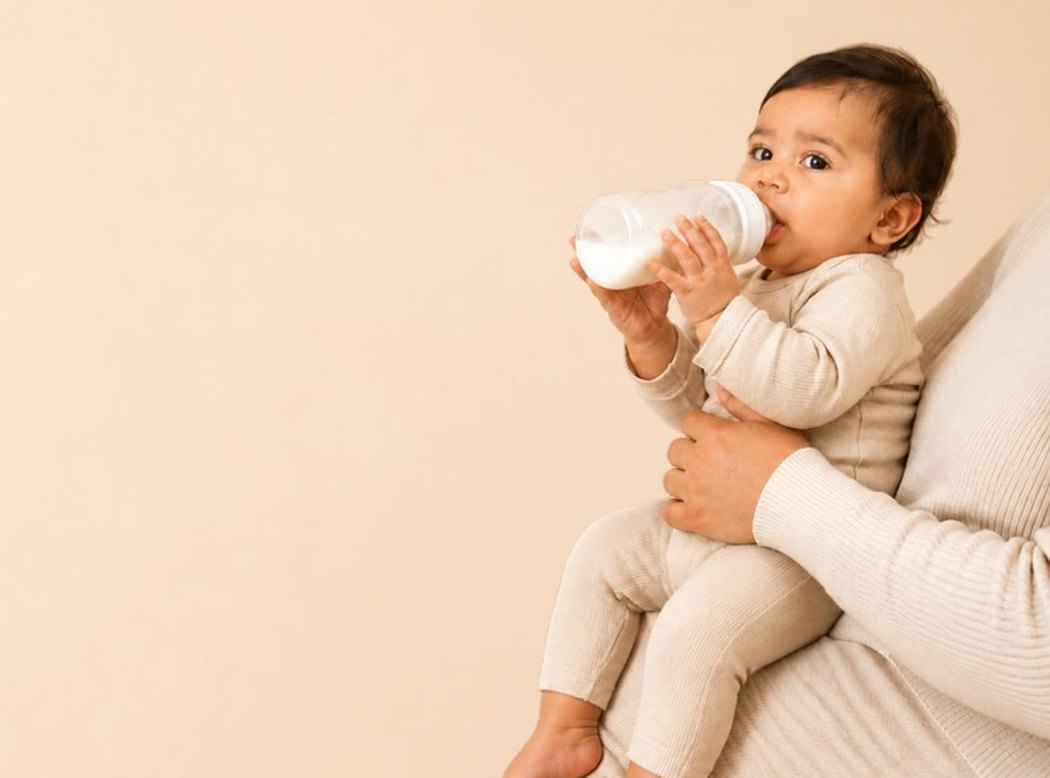
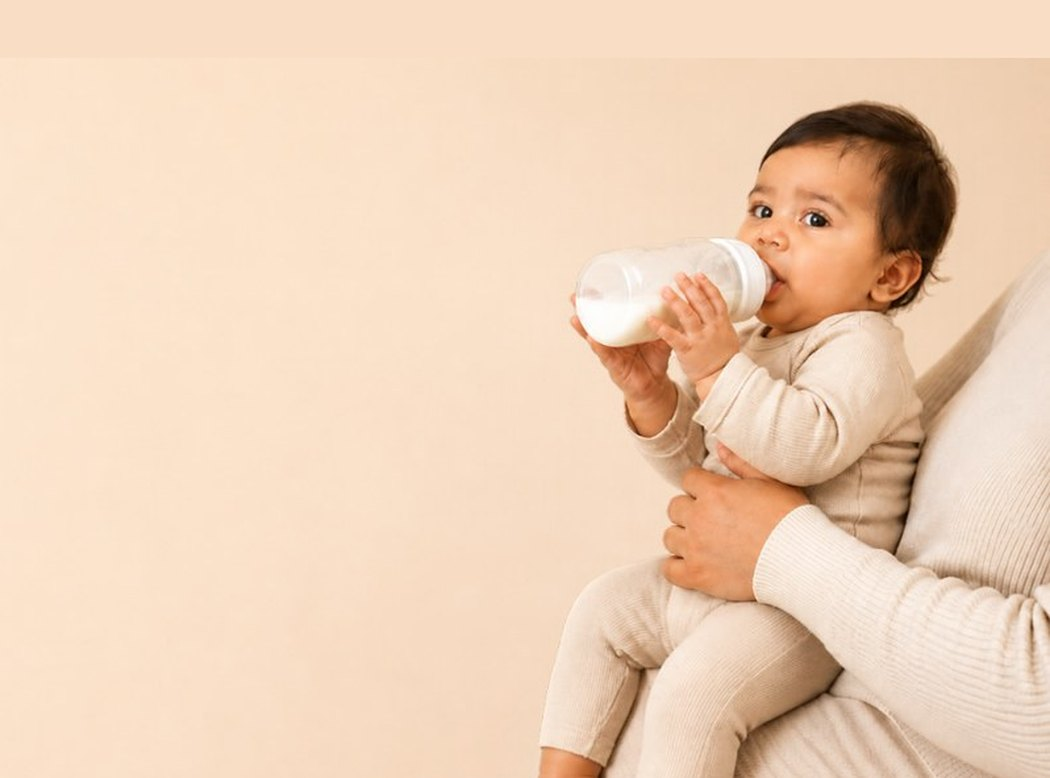
Feeding top card: Ready for solids baby back where it was; photo area keeps the photo's shape so heads are never cropped; shorter leads; a check that measures every card at 360/390/430
Claude-Session: https://claude.ai/code/session_01SSLJSJdmvqefnhBadk2njA

Changed region(s): [[0.4571, 0.0308, 1.0, 1.0]]

diff --git a/js/feed-mock2.js b/js/feed-mock2.js
@@ -3116,14 +3116,14 @@
   // Nov 19 (Yarden): one top card. The photo carries what you might notice as labels on the picture; the lead says why;
   // one thing to try closes the card. [photo, title, lead, try]
   const DISC = () => { const v = stg(), m = ageMo(), bot = isBottle() && !nurses();
-    if (v === 0) return [0, 'Feeds come close together', 'His stomach is tiny, so feeds bunch up, most of all in the evening. It eases by 6–8 weeks.', 'Feed him when you see early cues, before he cries.'];
-    if (v === 1 && m < 3) return [1, 'He’s getting good at this', 'From about 6 weeks, feeds get quicker. Shorter doesn’t mean less milk.', bot ? 'Let him end the feed, even if milk is left in the bottle.' : 'Let him end the feed, even if it’s sooner than usual.'];
-    if (v === 1) return [2, 'The world is interrupting his feeds', 'He notices everything now. Distracted isn’t the same as full.', 'Feed somewhere quiet and dim, and offer again after a short pause.'];
+    if (v === 0) return [0, 'Feeds come often', 'His stomach is tiny. Evenings are busiest, and it eases by 6–8 weeks.', 'Feed him when you see early cues, before he cries.'];
+    if (v === 1 && m < 3) return [1, 'He’s getting good at this', 'Feeds get quicker from about 6 weeks. That’s not less milk.', bot ? 'Let him end the feed, even if milk is left in the bottle.' : 'Let him end the feed, even if it’s sooner than usual.'];
+    if (v === 1) return [2, 'The world is interrupting his feeds', 'He notices everything. Distracted isn’t the same as full.', 'Feed somewhere quiet and dim, and offer again after a short pause.'];
     if (v === 2 && m >= 7) return [3, 'A good time to start', 'Iron matters more after 6 months. Bring your feeding questions to the checkup.', 'If he sits with support and swallows well, offer a soft, iron-rich food once a day.'];
     if (v === 2) return [3, 'Eating starts before the first bite', 'He’s watching, reaching, and learning what food is for.', 'Let him join you at meals and watch you eat.'];
-    if (v === 3 && m < 7.5) return [4, 'His tongue has a new job', 'Food coming back out is practice, not dislike. It happens less as he learns.', 'Offer the same food a few days in a row, and watch him get better at it.'];
+    if (v === 3 && m < 7.5) return [4, 'His tongue has a new job', 'Food coming back out is practice, not dislike.', 'Offer the same food a few days in a row, and watch him get better at it.'];
     if (v === 3) return [5, 'Lumps are a big leap', 'Gagging on new textures is normal. It happens less with practice.', 'When he gags, stay calm and let him work it out.'];
-    return [6, 'The mess is the milestone', 'Squishing and dropping food is practice for his fingers and mouth.', 'Eat with him when you can, so he can copy you.']; };
+    return [6, 'The mess is the milestone', 'Squishing and dropping food is how he practices.', 'Eat with him when you can, so he can copy you.']; };
   // Nov 19 (Yarden: labels covered the picture). Each dot sits beside the thing it names, never on it, and its label runs
   // away from the baby into empty background (the design system's rule: close labels, no leader lines).
   // [label, x, y, side] in % of a 5:3 crop at focus fy; heroPhoto moves them into the shorter 2.2:1 frame.

diff --git a/css/photos.css b/css/photos.css
@@ -273,10 +273,10 @@
 #main .sf-hero + .sf-head > h2.hub-h2 { margin-top: 6px !important }
 /* Nov 20: split top card — words on the photo's empty left side, baby on the right */
 #main .fd-hero.fd-split { padding-top: 0 !important }
-#main .fd-split .fd-split-top { position: relative; isolation: isolate; background: linear-gradient(160deg,#f9d9e5,#fce9ef 70%,#fdeee6); margin: 0 -20px; min-height: 248px; padding: 22px 20px 18px; display: flex; align-items: center; overflow: hidden; border-radius: 24px 24px 0 0 }
-#main .fd-split .fd-split-img { position: absolute; inset: 0; width: 100%; height: 100%; object-fit: cover; object-position: right center; mix-blend-mode: multiply; filter: brightness(1.13) saturate(0.95); -webkit-mask-image: linear-gradient(to right, transparent 0, #000 40%), linear-gradient(to bottom, #000 82%, transparent); -webkit-mask-composite: source-in; mask-image: linear-gradient(to right, transparent 0, #000 40%), linear-gradient(to bottom, #000 82%, transparent); mask-composite: intersect; pointer-events: none }
-#main .fd-split .fd-split-copy { position: relative; width: 52%; z-index: 1 }
+#main .fd-split .fd-split-top { position: relative; isolation: isolate; background: linear-gradient(160deg,#f9d9e5,#fce9ef 70%,#fdeee6); margin: 0 -20px; aspect-ratio: 1.35 / 1; padding: 0 20px; display: flex; align-items: center; overflow: hidden; border-radius: 24px 24px 0 0 }
+#main .fd-split .fd-split-img { position: absolute; inset: 0; width: 100%; height: 100%; object-fit: cover; object-position: right center; mix-blend-mode: multiply; filter: brightness(1.13) saturate(0.95); -webkit-mask-image: linear-gradient(to right, transparent 0, #000 40%), linear-gradient(to bottom, transparent 0, #000 7%, #000 82%, transparent); -webkit-mask-composite: source-in; mask-image: linear-gradient(to right, transparent 0, #000 40%), linear-gradient(to bottom, transparent 0, #000 7%, #000 82%, transparent); mask-composite: intersect; pointer-events: none }
+#main .fd-split .fd-split-copy { position: relative; width: 47%; z-index: 1 }
 #main .fd-split .fd-split-copy h1, #main .fd-split .fd-split-copy .hub-lead { text-wrap: balance }
-#main .fd-split .fd-split-copy h1 { font-size: 22px; line-height: 1.16; margin: 6px 0 8px }
+#main .fd-split .fd-split-copy h1 { font-size: clamp(20px, 5.6vw, 23px); line-height: 1.16; margin: 6px 0 8px }
 #main .fd-split .fd-split-copy .hub-lead { font-size: 14px; line-height: 1.4; margin: 0 }
 #main .fd-split .fd-try.fd-try-in { margin-top: 4px; padding-top: 10px }

diff --git a/index.html b/index.html
@@ -12,7 +12,7 @@
 <link rel="stylesheet" href="css/sleep-sub-look.css">
 <link rel="stylesheet" href="css/health-look.css?v=1113e">
 <link rel="stylesheet" href="css/safety-look.css?v=1118s">
-<link rel="stylesheet" href="css/photos.css?v=1120i">
+<link rel="stylesheet" href="css/photos.css?v=1120k">
 <link rel="stylesheet" href="css/outings-look.css?v=1113e">
 <link rel="stylesheet" href="css/childcare-look.css"><link rel="stylesheet" href="css/care-card.css">
 <link rel="stylesheet" href="css/care-v2.css?v=1117x">
@@ -53,7 +53,7 @@
 <script src="js/care-art.js?v=1113g"></script>
 <script src="js/care-v2.js?v=1119zi"></script>
 <script src="js/cat-icons.js"></script>
-<script src="js/year-ahead-art.js"></script><script src="js/year-ahead.js?v=1117q"></script><script src="js/profile-v2.js?v=1113e"></script><script src="js/stages-nav.js?v=1119p"></script><script src="js/feed-mock2.js?v=1120h"></script><script src="js/feed-templates.js?v=1119zj"></script><script src="js/home-copy.js?v=1119zj"></script><script src="js/home-cards.js?v=1119zj"></script><script src="js/home-glance.js?v=1118c"></script>
+<script src="js/year-ahead-art.js"></script><script src="js/year-ahead.js?v=1117q"></script><script src="js/profile-v2.js?v=1113e"></script><script src="js/stages-nav.js?v=1119p"></script><script src="js/feed-mock2.js?v=1120k"></script><script src="js/feed-templates.js?v=1119zj"></script><script src="js/home-copy.js?v=1119zj"></script><script src="js/home-cards.js?v=1119zj"></script><script src="js/home-glance.js?v=1118c"></script>
 <script src="js/feed-photos.js?v=1119zj"></script><script src="js/search-index.js?v=1114q"></script><script src="js/cohesion.js?v=1114v"></script><script src="js/they-grammar.js"></script><script src="js/month-story.js"></script><script src="js/boot.js"></script>
 </body>
 </html>

diff --git a/tools/qa/browser/feeding_hero_check.py b/tools/qa/browser/feeding_hero_check.py
@@ -1,0 +1,46 @@
+"""Feeding top-card check (Nov 20). Serve the app on :8765 first.
+For every milk/solids stage at 360, 390 and 430px wide, it measures:
+  - the gap between the words and the baby (fails under 16px)
+  - space above the baby's head (fails under 10px)
+  - whether the photo is cropped top or bottom
+  - whether the words touch the top of the card
+and saves a screenshot of each card to OUT (default /tmp/feeding_hero)."""
+import asyncio, sys, os
+import numpy as np
+from PIL import Image, ImageFilter
+from playwright.async_api import async_playwright
+ROOT = os.path.dirname(os.path.dirname(os.path.dirname(os.path.dirname(os.path.abspath(__file__)))))
+OUT = sys.argv[1] if len(sys.argv) > 1 else '/tmp/feeding_hero'
+os.makedirs(OUT, exist_ok=True)
+C = [(0.3, 'Breast milk', 0, 'newborn'), (1.5, 'Formula', 0, 'milk'), (3.5, 'Formula', 0, 'distracted'), (5, 'Formula', 0, 'ready'), (6.5, 'Formula', 1, 'first'), (10, 'Formula', 1, 'meals')]
+def subject(key):
+    a = np.asarray(Image.open(f'{ROOT}/assets/feeding/fn-{key}.jpg').convert('RGB')).astype(int); h, w, _ = a.shape
+    bg = np.median(a[:, :int(w * .2)].reshape(-1, 3), axis=0)
+    d = np.abs(a - bg).sum(axis=2) > (90 if key == 'newborn' else 45)
+    d = np.asarray(Image.fromarray((d * 255).astype('uint8')).filter(ImageFilter.MedianFilter(9))) > 0
+    cols = np.where(d[:int(h * .85)].sum(axis=0) > h * 0.03)[0]; rows = np.where(d[:, int(w * .45):].sum(axis=1) > w * 0.02)[0]
+    return cols.min() / w, rows.min() / h
+async def main():
+    bad = 0
+    async with async_playwright() as p:
+        b = await p.chromium.launch(executable_path='/usr/bin/google-chrome')
+        for W in [360, 390, 430]:
+            pg = await b.new_page(viewport={'width': W, 'height': 844}, device_scale_factor=2)
+            await pg.goto('http://localhost:8765/index.html'); await pg.wait_for_timeout(800)
+            for m, f, sol, key in C:
+                await pg.evaluate(f"""()=>{{const d=new Date(NOW);d.setDate(d.getDate()-Math.round({m}*30.44));profile={{...demo,dob:iso(d),example:false,feed:'{f}',feedHow:'Bottle'}};answers={{}};{"answers.solids='Yes';" if sol else ""}persist();month=actualMonth();historyStack=['categories'];openPage('topic:Feeding');scrollTo(0,0)}}""")
+                await pg.wait_for_timeout(500)
+                r = await pg.evaluate("""()=>{const t=document.querySelector('#main .fd-split-top');const im=t.querySelector('img');const c=t.querySelector('.fd-split-copy');const tb=t.getBoundingClientRect();const cb=c.getBoundingClientRect();
+                  const right=Math.max(...[...c.querySelectorAll('h1,.hub-lead,.hub-eyebrow')].map(e=>{const g=document.createRange();g.selectNodeContents(e);return g.getBoundingClientRect().right}));
+                  return {W:tb.width,H:tb.height,iw:im.naturalWidth,ih:im.naturalHeight,textRight:right-tb.left,copyTop:cb.top-tb.top}}""")
+                sl, st = subject(key)
+                s = max(r['W'] / r['iw'], r['H'] / r['ih']); dw, dh = r['iw'] * s, r['ih'] * s; ox, oy = r['W'] - dw, (r['H'] - dh) / 2
+                gap, head = ox + sl * dw - r['textRight'], oy + st * dh
+                flags = [x for x, bad_ in [('TEXT TOO CLOSE', gap < 16), ('HEAD AT EDGE', head < 10), ('CROPPED', abs(oy) > 2), ('TEXT AT EDGE', r['copyTop'] < 14)] if bad_]
+                bad += bool(flags)
+                print(W, key, 'gap', round(gap), 'head', round(head), ' '.join(flags) or 'ok')
+                await (await pg.query_selector('#main .fd-split')).screenshot(path=f'{OUT}/{W}_{key}.png')
+            await pg.close()
+        await b.close()
+    print('FAILED' if bad else 'All Feeding top cards pass.'); sys.exit(1 if bad else 0)
+asyncio.run(main())
